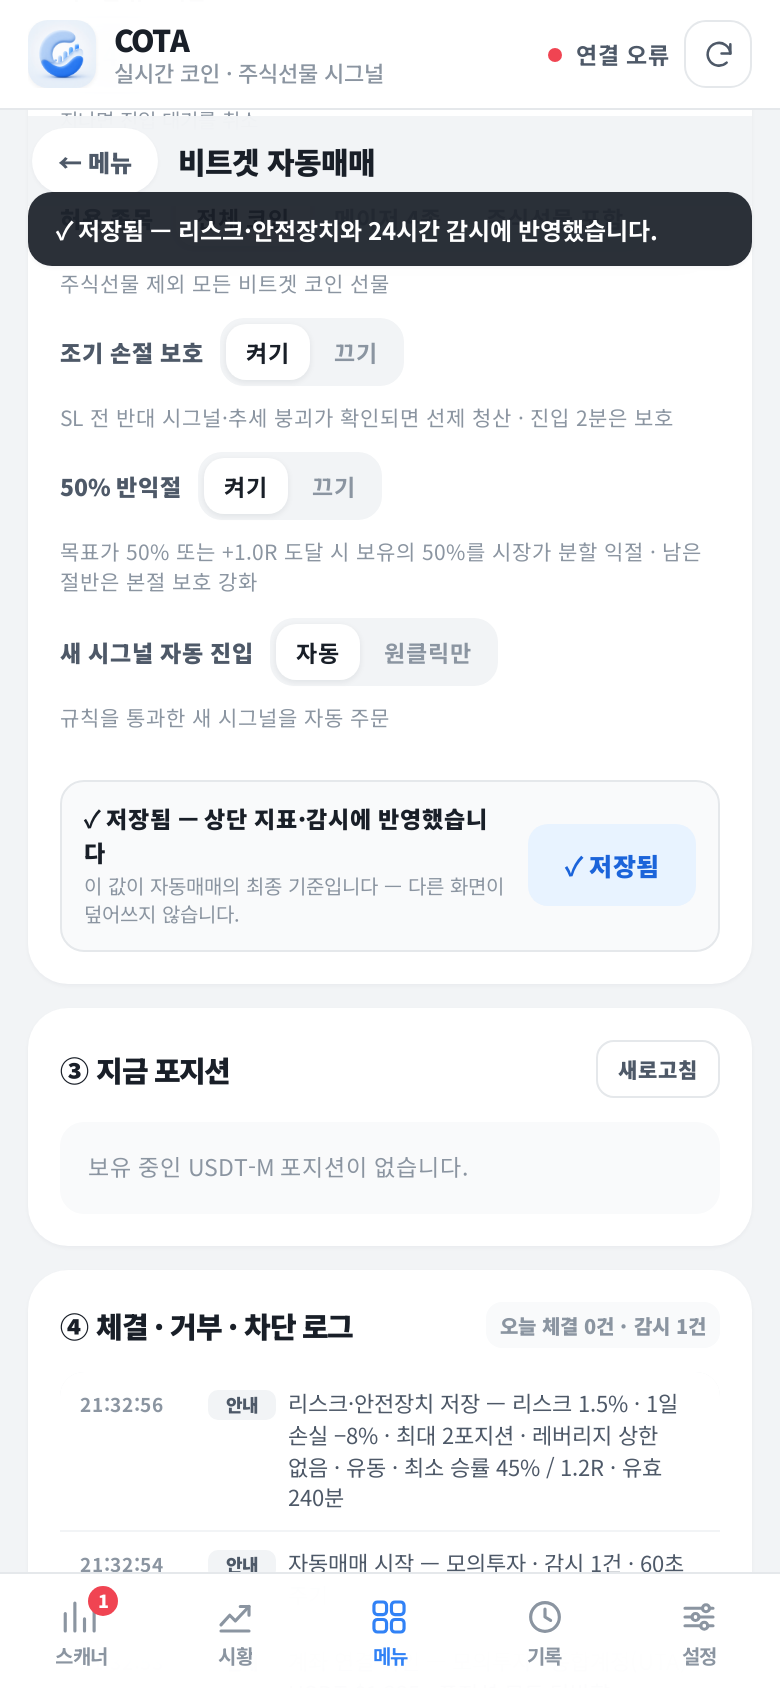
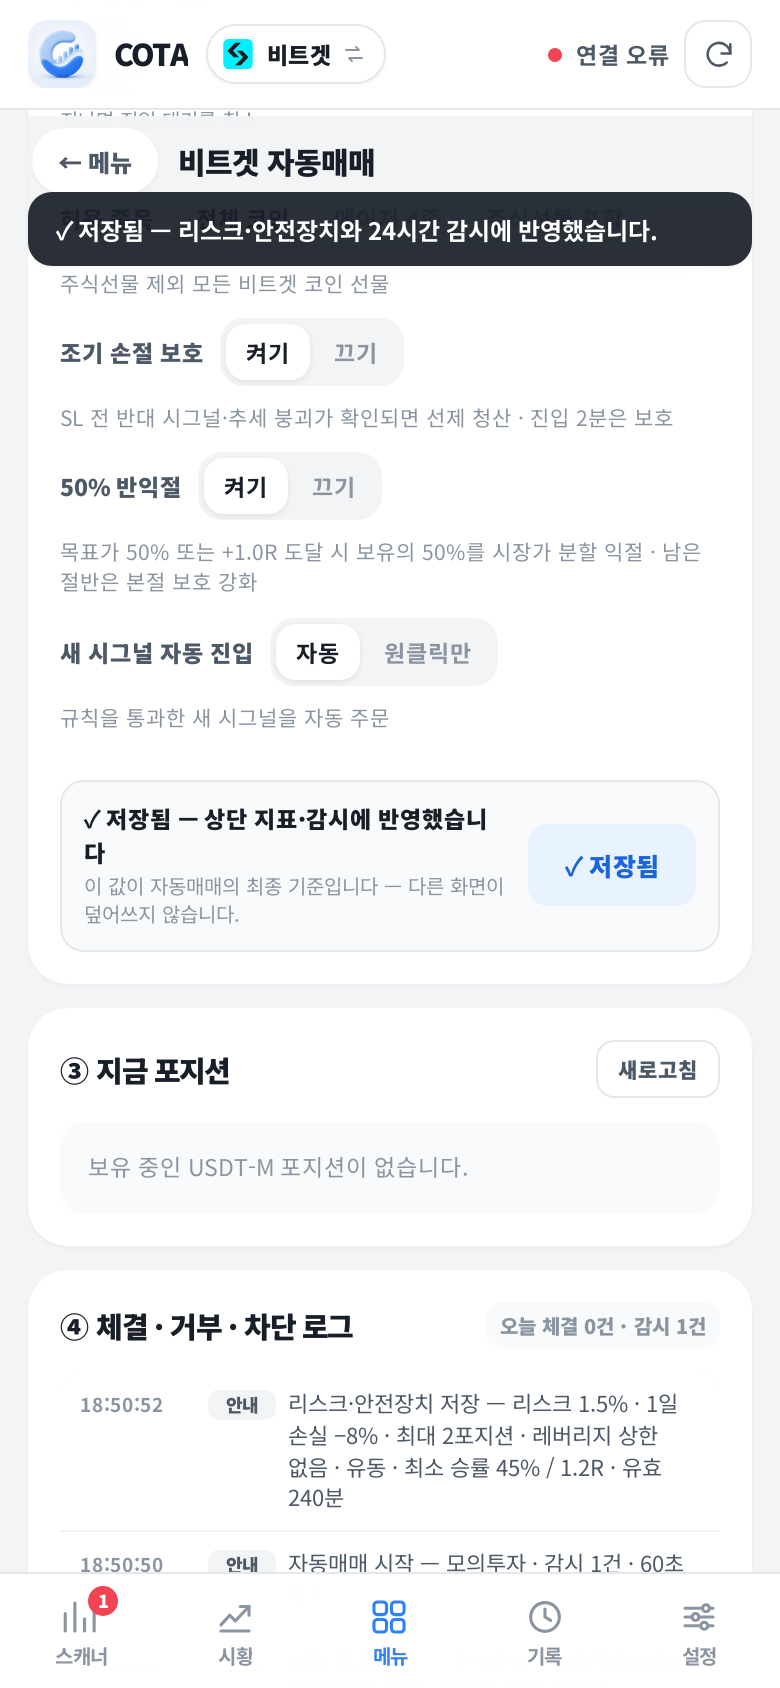
fix(cota): 바이낸스 모드는 자동매매 감시 목록까지 정지 — 비트겟 계좌 주문 원천 차단

Changed region(s): [[0.1538, 0.0, 0.4923, 0.0616]]

diff --git a/src/hooks/useAutoTrade.ts b/src/hooks/useAutoTrade.ts
@@ -130,6 +130,12 @@ interface UseAutoTradeInput {
    * v1.5.6 — 연결된 계좌의 **실시간 잔고(equity)** 를 함께 받아 잔고 구간별로 유동 계산한다.
    */
   leverageFor: (signal: Signal, equity: number | null) => number;
+  /**
+   * 주문 정지 — 거래소가 비트겟이 아닐 때(바이낸스 모드) true.
+   * 화면에 남아 있던 이전 감시 목록까지 네이티브에서 비워, 다른 거래소 시그널로
+   * 비트겟 계좌 주문이 나가는 일을 원천 차단한다.
+   */
+  paused?: boolean;
 }
 
 export interface QuickOrderResult {
@@ -138,7 +144,7 @@ export interface QuickOrderResult {
   simulated: boolean;
 }
 
-export function useAutoTrade({ signals, contracts, leverageFor }: UseAutoTradeInput) {
+export function useAutoTrade({ signals, contracts, leverageFor, paused = false }: UseAutoTradeInput) {
   const [config, setConfig] = useState<AutoTradeConfig>(readConfig);
   const [runtime, setRuntime] = useState<AutoRuntime>(readRuntime);
   const [keys, setKeysState] = useState<BitgetKeyState & { supported: boolean }>({
@@ -953,6 +959,12 @@ export function useAutoTrade({ signals, contracts, leverageFor }: UseAutoTradeIn
       lastConfigSigRef.current = '';
       return;
     }
+    if (paused) {
+      // 바이낸스 모드 — 비트겟 계좌 주문이 나가지 않도록 감시 목록을 비워 네이티브에 넘긴다.
+      armedRef.current = [];
+      void autoTradeSync({ ...config, mode: tradeMode.mode }, [], exitSignals).then(applyNative);
+      return;
+    }
     const now = Date.now();
     const sig = JSON.stringify(config);
     const configChanged = sig !== lastConfigSigRef.current;
@@ -993,7 +1005,7 @@ export function useAutoTrade({ signals, contracts, leverageFor }: UseAutoTradeIn
     armedRef.current = mergeArmedPlans(alive, plans);
     void autoTradeSync({ ...config, mode: tradeMode.mode }, armedRef.current, exitSignals).then(applyNative);
     // eslint-disable-next-line react-hooks/exhaustive-deps
-  }, [signals, config, config.enabled, config.autoEntry, supported]);
+  }, [signals, config, config.enabled, config.autoEntry, supported, paused]);
 
   /** 하루 손실 한도에 닿으면 자동으로 잠근다. */
   useEffect(() => {

diff --git a/src/App.tsx b/src/App.tsx
@@ -74,6 +74,7 @@ export default function App() {
     // 자동매매·원클릭 주문은 **비트겟 계좌 전용** — 바이낸스 모드에서는 시그널을 감시 대상에서 뺀다.
     // (바이낸스 시그널로 비트겟 주문이 나가는 사고를 원천 차단)
     signals: exchange === 'bitget' ? state.signals : [],
+    paused: exchange !== 'bitget',
     contracts: state.contracts,
     // 잔고(equity)와 종목 최대 배율을 함께 넘겨 잔고 구간별 유동 레버리지를 쓴다(v1.5.6)
     leverageFor: (signal, equity) =>
